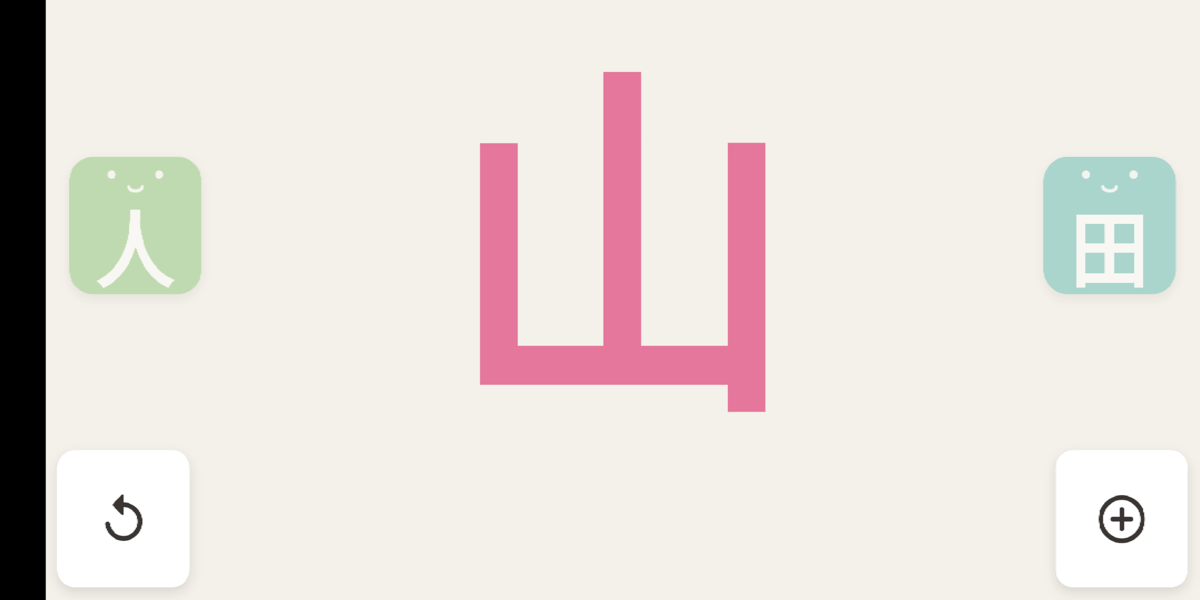
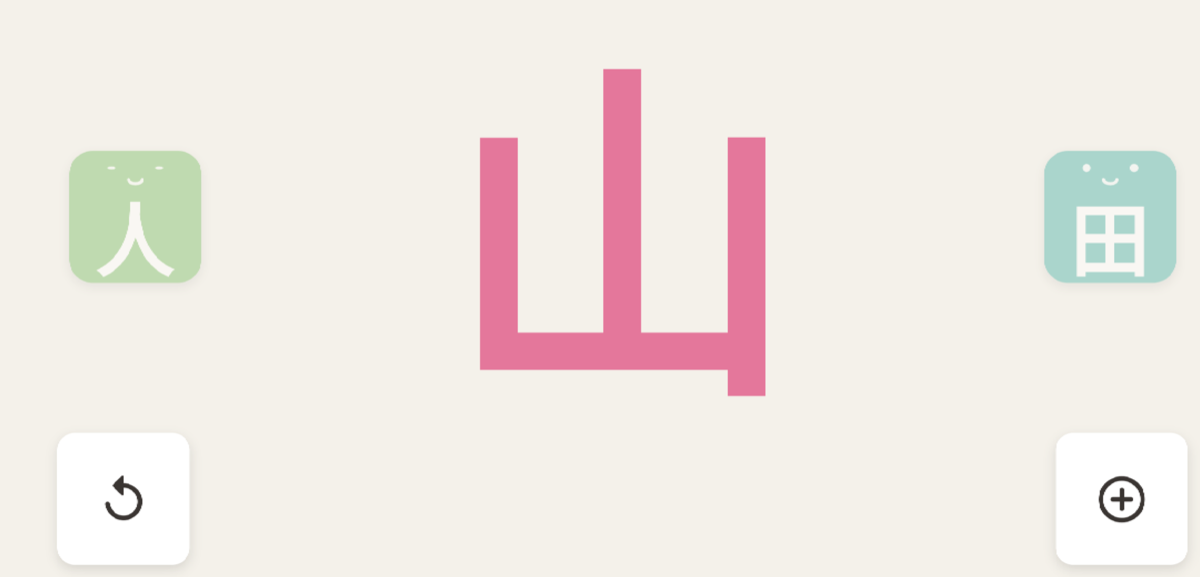
docs: 重拍 README 截图——刘海修好之后的满屏画面
9 张全部重拍。之前那批是修刘海之前拍的，每张左边都带着那条黑边，
现在画面铺满整块屏幕（816×393 dp，刘海那一条也算在内）。

顺带把两张原本有点空的补上了内容：
- 数字大陆：摆出 13 = 一条十 + 三个单块，目标数变绿、「下一个」点亮，
  一眼能看出位值是怎么回事。空板子看不出这一课在教什么。
- 自由沙盒：摆出 1+2=3，App 认出来并念出声。

家长设置那张是在**默认的 15 分钟**下拍的——上一轮为了截图把上限调到过
45，这次没动过设置，拍完即是默认态。

顺带修正 README 里两个对不上的数：外部素材 88 → 86 个 OpenMoji 图标
（上次删掉两个没人引用的，许可那张表已经是 86，正文漏改了）；
测试项数 626 → 636。

Changed region(s): [[0.0, 0.0, 0.0617, 1.0]]

diff --git a/README.md b/README.md
@@ -25,7 +25,7 @@ An offline block-play learning app built for a nearly-three-year-old. No ads, no
 
 ### 截图
 
-以下均为 **MI 8 SE 真机 release 构建**的实拍（横屏 738×393 dp）。
+以下均为 **MI 8 SE 真机 release 构建**的实拍。横屏 816×393 dp——刘海那一条也算在内，画面是**铺满整块屏幕**的。
 
 | 星球地图（首页） | 自由沙盒 |
 |---|---|
@@ -118,7 +118,7 @@ Flutter 3.44.8（fvm 锁定）· Dart ^3.12.2
 
 **刻意不引入**：游戏引擎与物理引擎（幼儿要的是「吸附到位」的确定感，不是自由落体）、Rive / Lottie（积木的脸用 `CustomPainter` 程序化绘制）、任何网络 / 分析 / 广告 SDK。
 
-积木、脸、蛋糕、星球、**连应用图标**都是 `Canvas` 画出来的，零位图素材。唯一的外部素材是 88 个 OpenMoji 名词图标。
+积木、脸、蛋糕、星球、**连应用图标**都是 `Canvas` 画出来的，零位图素材。唯一的外部素材是 86 个 OpenMoji 名词图标。
 
 ### 目录
 
@@ -142,7 +142,7 @@ tool/               gen_audio · gen_sfx · gen_icon · fetch_openmoji
 ```bash
 fvm flutter pub get
 fvm flutter analyze          # 无告警
-fvm flutter test             # 626 项
+fvm flutter test             # 636 项
 fvm flutter run -d <device>
 
 fvm dart run tool/gen_audio.dart      # 内容包 → TTS 语音
@@ -207,7 +207,7 @@ The five domains look unrelated but share one mental model: **composition**.
 
 ### Screenshots
 
-All shots are from a **release build on a real MI 8 SE** (landscape, 738×393 dp).
+All shots are from a **release build on a real MI 8 SE**. Landscape, 816×393 dp — the display cutout strip included, so the picture goes **edge to edge**.
 
 | Planet map (home) | Sandbox |
 |---|---|
@@ -300,7 +300,7 @@ Flutter 3.44.8 (pinned via fvm) · Dart ^3.12.2
 
 **Deliberately not used**: game/physics engines (a toddler wants the certainty of *snapping into place*, not free fall), Rive / Lottie (block faces are drawn programmatically with `CustomPainter`), and any network / analytics / ad SDK.
 
-The blocks, faces, cake, planet and **even the app icon** are drawn on a `Canvas` — zero bitmap art. The only external assets are 88 OpenMoji noun icons.
+The blocks, faces, cake, planet and **even the app icon** are drawn on a `Canvas` — zero bitmap art. The only external assets are 86 OpenMoji noun icons.
 
 ### Layout
 
@@ -324,7 +324,7 @@ tool/               gen_audio · gen_sfx · gen_icon · fetch_openmoji
 ```bash
 fvm flutter pub get
 fvm flutter analyze          # clean
-fvm flutter test             # 626 tests
+fvm flutter test             # 636 tests
 fvm flutter run -d <device>
 
 fvm dart run tool/gen_audio.dart      # content packs → TTS voice files
